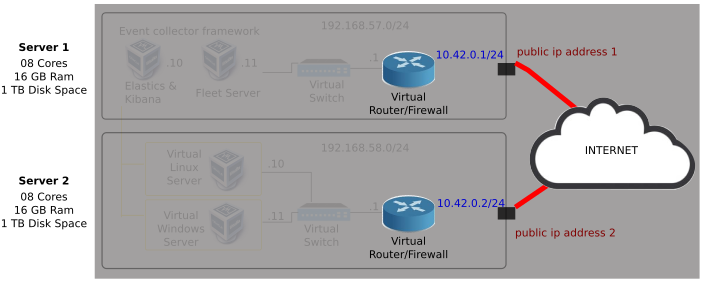
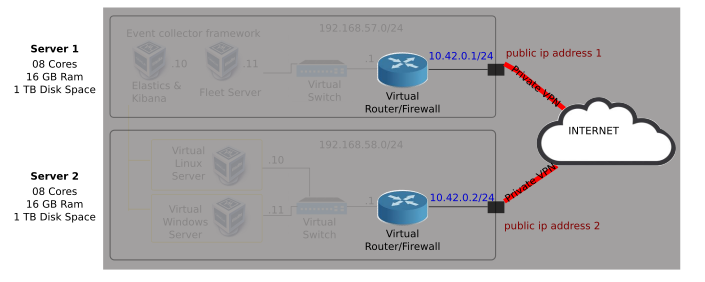
updatex

Changed region(s): [[0.0, 0.0, 0.9986, 0.9929]]

diff --git a/_posts/2024-09-04-research-d10.md b/_posts/2024-09-04-research-d10.md
@@ -1,11 +1,11 @@
 ---
-title: Second attempt to configure the opnsense router networking as "host-only"
+title: Second attempt to configure the OPNsense router networking as "host-only"
 date: 2024-09-04 05:00:00 +0200
 categories: [research, setup]
 tags: [networking, virtualbox, linux, nat, bridge, host-only]     # TAG names should always be lowercase
 ---
 
-# Configuring opnsense networking as "host-only"
+# Configuring OPNsense networking as "host-only"
 
 Let's recap
 
@@ -19,9 +19,23 @@ Given the computational capabilities that are required to run several virtual ma
 
 **How to proceed?**
 
-Then, currently, the issue is in getting to communicate 02 of the virtual routers, from different physical servers, between each other with out any problem.
+Then, currently, the issue is in getting to communicate the 02 of the virtual routers, from different physical servers, between each other with out any problem.
 
 ![alt text](assets/images/routers-communicating.png)
 
-
 If we managed to communicate the OPNsense routers from both of the physical servers with a private VPN, then, we can connect the internal networks behind both routers.
+
+**Then, what is the current issue?**
+
+Well, we managed to get the virtual router of one of the servers to be able to communicate with the exterior by configuring the virtual machine network as "Bridge" and "NAT" modes. However, when we attempted to do so with "Host-only" or "Internal-Network", the router just simply can not communicate with the outside world.
+
+![alt text](assets/images/opn-networking-choose.png)
+
+**OPNsense router in Bridge "Mode"**
+
+
+
+LAN (em1) -> 192.168.56.2/24 -> 6d:d4 -> eno2
+WAN (em0) -> 10.30.12.29/24 -> d2:c9 -> eno1
+
+

diff --git a/_tabs/about.md b/_tabs/about.md
@@ -4,7 +4,20 @@ icon: fas fa-info-circle
 order: 1
 ---
 
-> Add Markdown syntax content to file `_tabs/about.md`{: .filepath } and it will show up on this page.
-{: .prompt-tip }
+<!-- > Add Markdown syntax content to file `_tabs/about.md`{: .filepath } and it will show up on this page. -->
+<!-- {: .prompt-tip } -->
 
-what about now!
+## Virtual network implementation for research idea.
+
+![alt text](/assets/images/network_implementation.png)
+
+**Description**
+
+Three hosts with Linux-based OS. Each host has an IPv4 address in the range 114.71.51.0/24:
+- Server 1 is 114.71.51.39/24
+- Server 2 is 114.71.51.41/24
+- Server 3 is 114.71.51.43/24
+
+Each Server will host different sub-networks composed by virtual machines, virtual switches, and virtual routers. To communicate these sub-networks between each other and to provide internet access to these sub-networks, each of the virtual routers' WAN interface should be in 'Bridge' mode. For the 'Bridge' mode to work properly, it will be necessary to assign an IPv4 address from the same network range as the IPv4 addresses of each host, in the range 114.71.51.0/24.
+
+Another solution can be to set the router's WAN interface in 'NAT' mode. However, more complex configuration is needed. 'Bridge' mode is the simplest guaranteed strategy to provide external-network access to the sub-networks.
